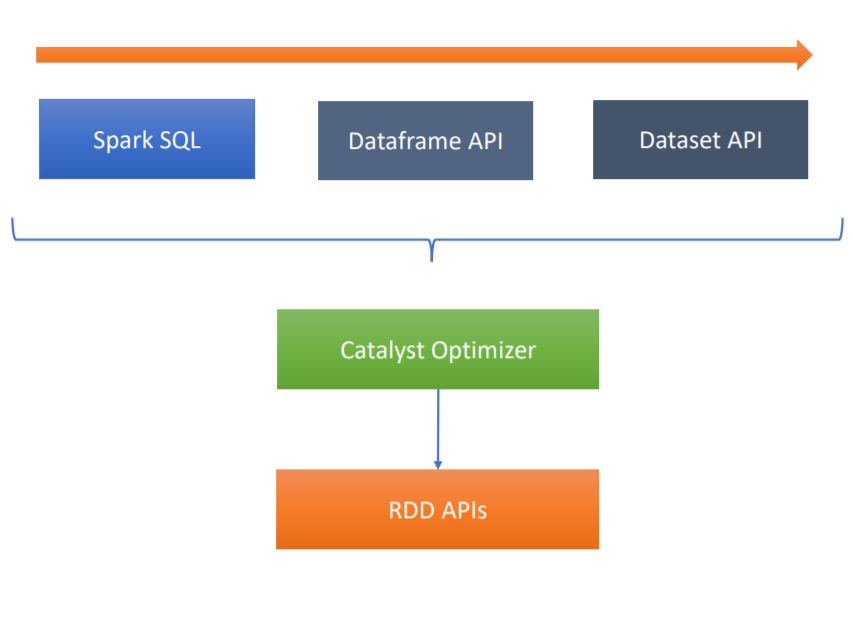
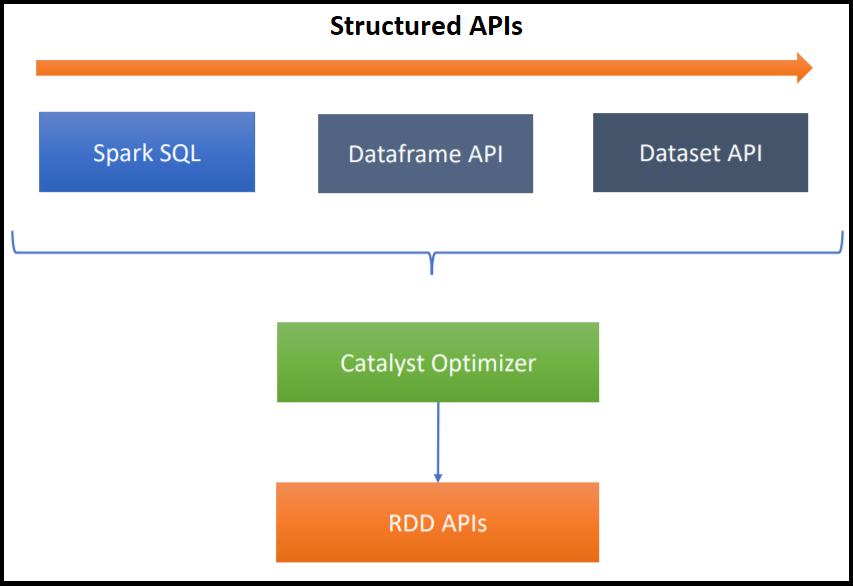
Adding readme data

diff --git a/README.md b/README.md
@@ -145,5 +145,5 @@ DAG has
 
 <b>Spark SQL:</b> Recommanded by Spark, as it performs efficient operations. They are like SQL queries and hides the underlying complexities
 
-Diagram Reference: 
+Diagram Reference: https://www.udemy.com/course/apache-spark-programming-in-scala/
 ![Structured APIs](readme-assets/Structured_APIs.png)
